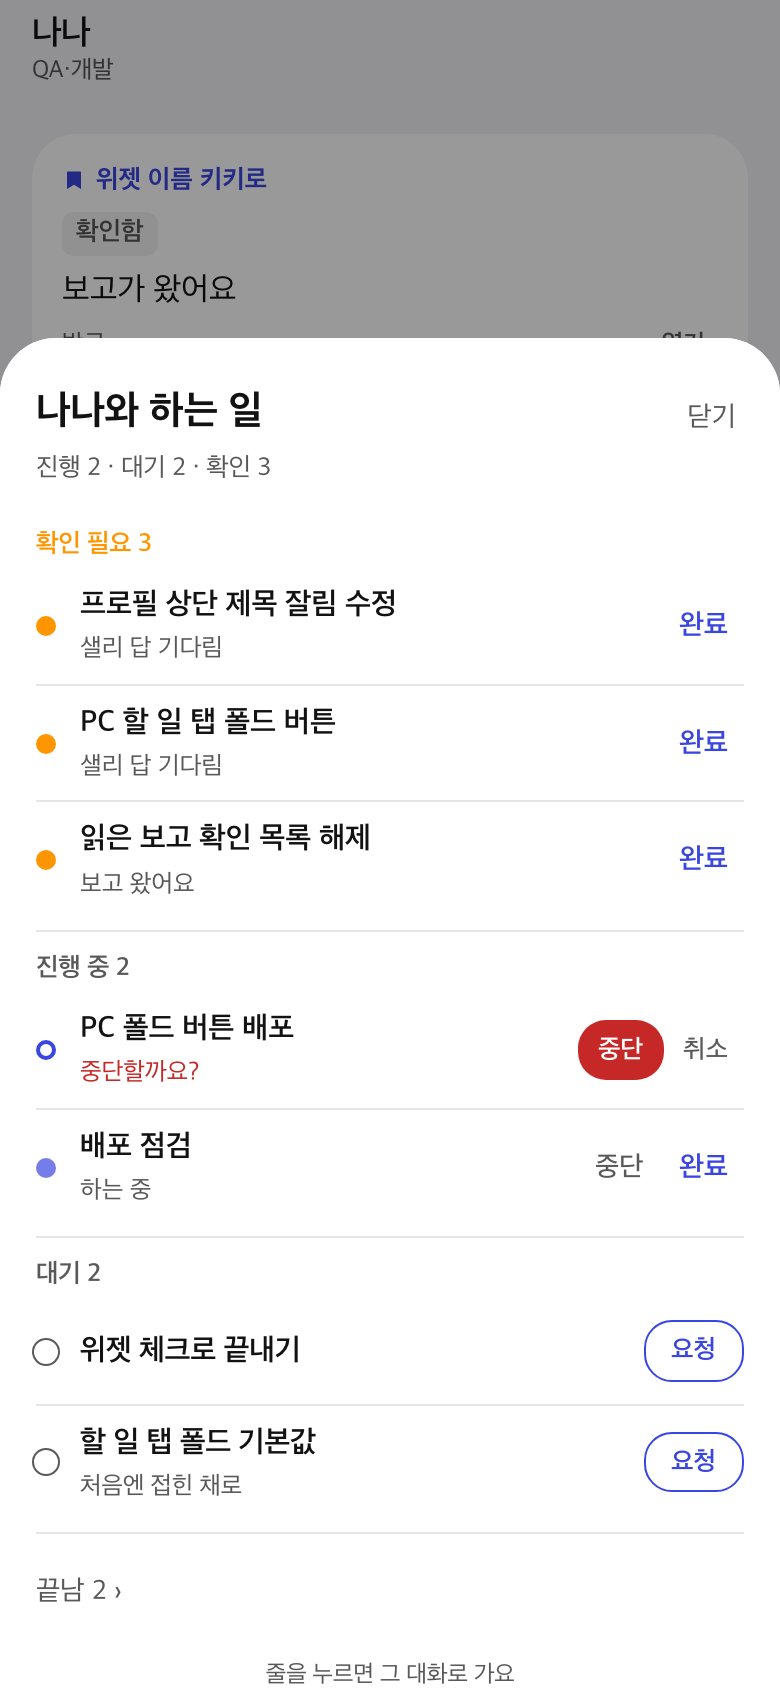
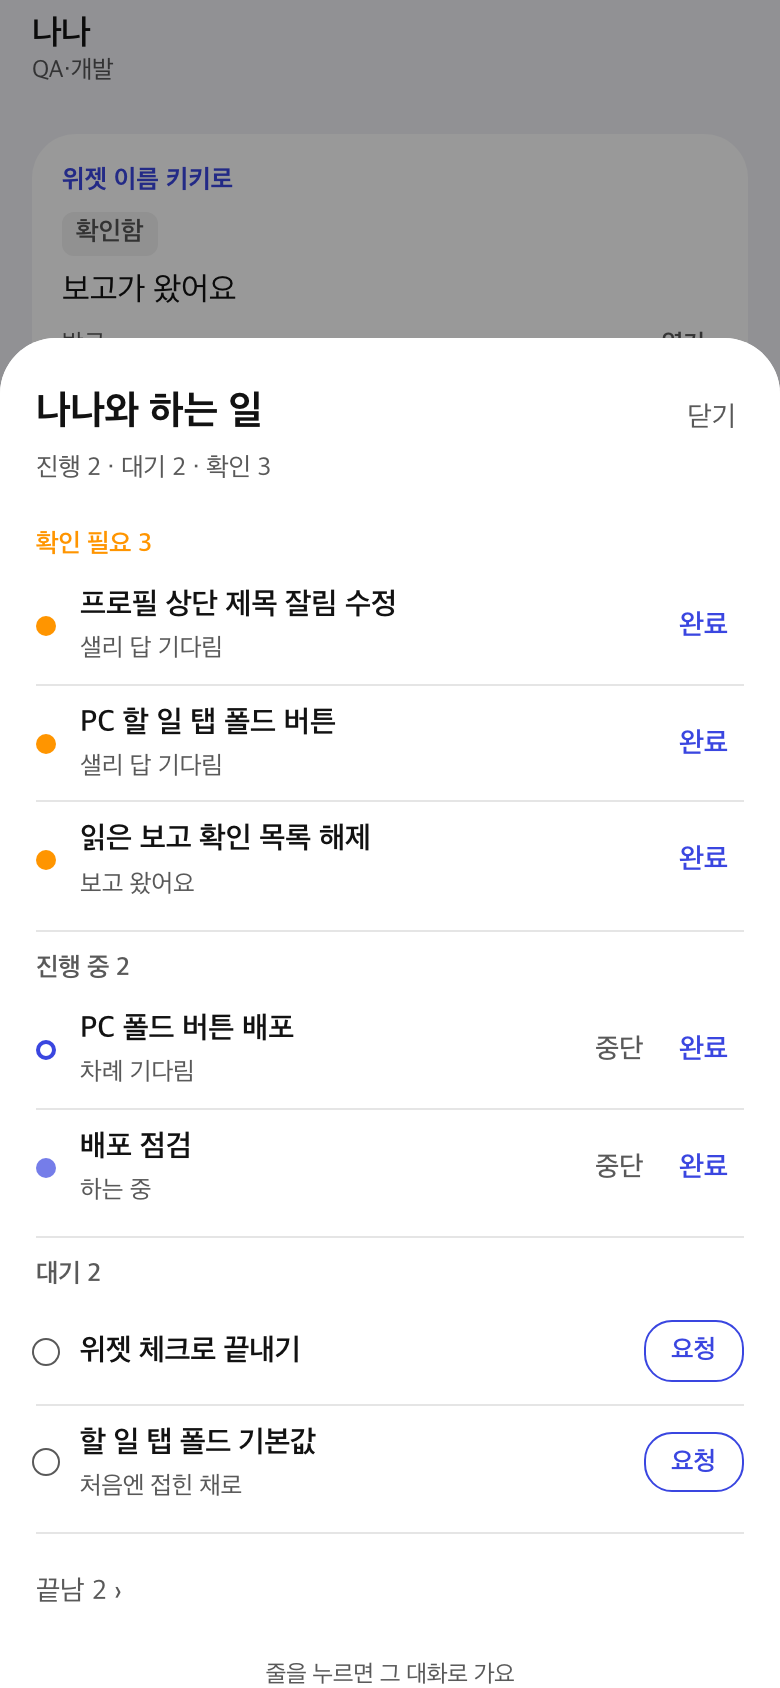
Deploy kiki-todo-crew-page → public-pages/ (redeploy, 2026-11-01)

Changed region(s): [[0.7385, 0.5853, 0.9231, 0.6469], [0.0923, 0.0924, 0.3385, 0.1232], [0.0923, 0.6161, 0.2462, 0.6469]]

diff --git a/kiki-todo-crew-page/index.html b/kiki-todo-crew-page/index.html
@@ -9,9 +9,9 @@ figure{margin:0}img{width:100%;border-radius:12px;border:1px solid var(--line);d
 <h1>할 일·맡기기 위젯과 크루 페이지</h1>
 <p class="sub">11월 1일 · 위젯은 집맥에 설치 완료, 크루 페이지는 배포 전 확인용</p>
 <p class="band">위젯 두 개는 지금 바로 쓸 수 있습니다. 크루네 크루 페이지는 아래 시안과 실제 화면을 보고 「배포해」라고 하시면 올립니다.</p>
-<section><h2>다시 만든 화면 · 「나나와 하는 일」 + 말풍선 업무 제목 (3차)</h2><p class="sub">채팅방 말풍선마다 맨 위에 업무 제목이 붙어 어떤 업무 이야기인지 바로 보여요. 하는 일 목록도 같은 제목을 쓰고, 중단 확인은 「중단」 한 단어로 줄였습니다.</p>
-<figure><img src="img/room-work.png" alt="하는 일 시안"><figcaption>시안: ① 말풍선마다 업무 제목 ② 목록도 같은 제목 ③ 중단 확인은 짧게</figcaption></figure>
-<div class="shots"><figure><img src="img/rw-button.png" alt="단추"><figcaption>실제 화면 · 말풍선 업무 제목, 오른쪽 아래 단추</figcaption></figure><figure><img src="img/rw-doing.png" alt="목록"><figcaption>한 장 목록</figcaption></figure><figure><img src="img/rw-wait.png" alt="중단 확인"><figcaption>중단 재확인</figcaption></figure><figure><img src="img/rw-review.png" alt="다크"><figcaption>중단 확인 · 다크 모드</figcaption></figure></div>
+<section><h2>다시 만든 화면 · 「나나와 하는 일」 + 말풍선 업무 제목 (4차)</h2><p class="sub">방 오른쪽 아래 단추가 책갈피 아이콘 대신 「진행 2」처럼 진행 중인 업무 수를 보여 줘요. 확인할 일이 있으면 「확인 n」, 진행이 없고 대기만 있으면 「대기 n」이 붙습니다. 말풍선마다 업무 제목, 중단 확인은 「중단」 한 단어.</p>
+<figure><img src="img/room-work.png" alt="하는 일 시안"><figcaption>시안: ① 진행 중 2 ② 확인할 일도 있을 때 ③ 진행 중인 일이 없을 때</figcaption></figure>
+<div class="shots"><figure><img src="img/rw-button.png" alt="단추"><figcaption>실제 화면 · 「진행 2 | 확인 3」 단추</figcaption></figure><figure><img src="img/rw-doing.png" alt="목록"><figcaption>진행 0 · 대기만 있을 때</figcaption></figure><figure><img src="img/rw-wait.png" alt="중단 확인"><figcaption>누르면 한 장 목록</figcaption></figure><figure><img src="img/rw-review.png" alt="다크"><figcaption>중단 확인 · 다크 모드</figcaption></figure></div>
 <ul><li>순서: 확인 필요 → 진행 중 → 대기 → 끝남(접힘)</li><li>진행 중: 「중단」은 한 번 더 확인, 「완료」는 멈춘 것을 확인한 뒤 끝남으로</li><li>대기: 「요청」을 누르면 바로 새 업무로 보내요</li><li>확인 필요: 「완료」로 끝남으로</li><li>줄을 누르면 그 업무 말풍선으로 가서 잠깐 강조돼요. 아직 배포 전, 시험 자료 화면이에요.</li></ul></section>
 <section><h2>0. 업무 대화에 「진행 상황」 붙이기 (새 시안)</h2><p class="sub">지금은 대화만 쌓여서 무엇을 끝냈고 무엇이 남았는지 보기 어렵습니다. 대화 위에 진행 상황 카드를 두는 두 가지 안입니다.</p>
 <figure><img src="img/progress.png" alt="진행 상황 시안"><figcaption>A 회차로 보기 · B 단계 체크리스트 · 크루 페이지 채팅 줄 진행 막대</figcaption></figure>
